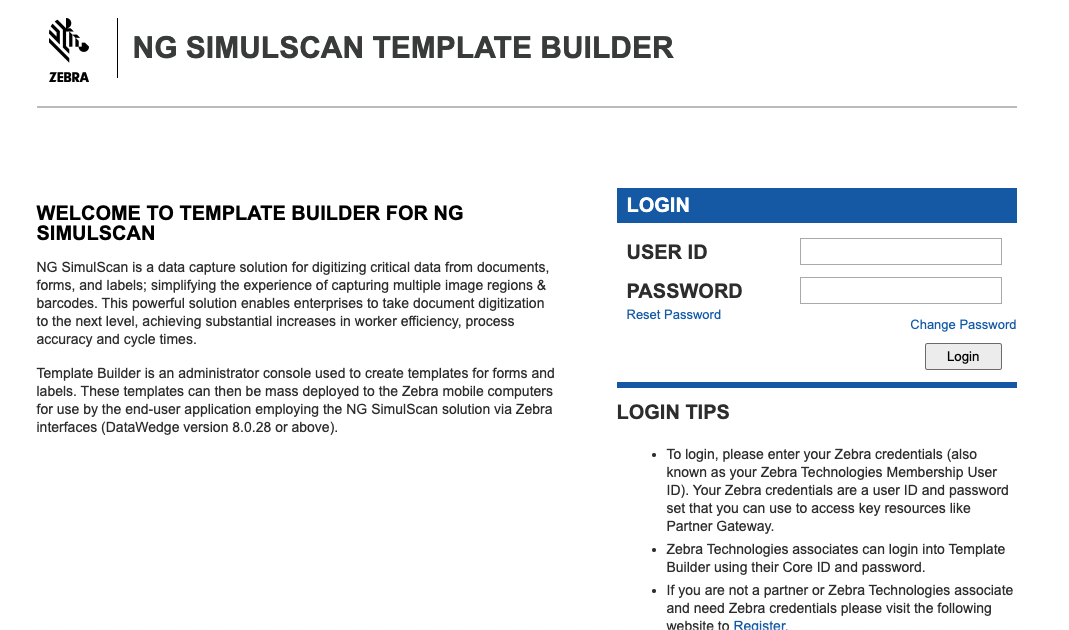
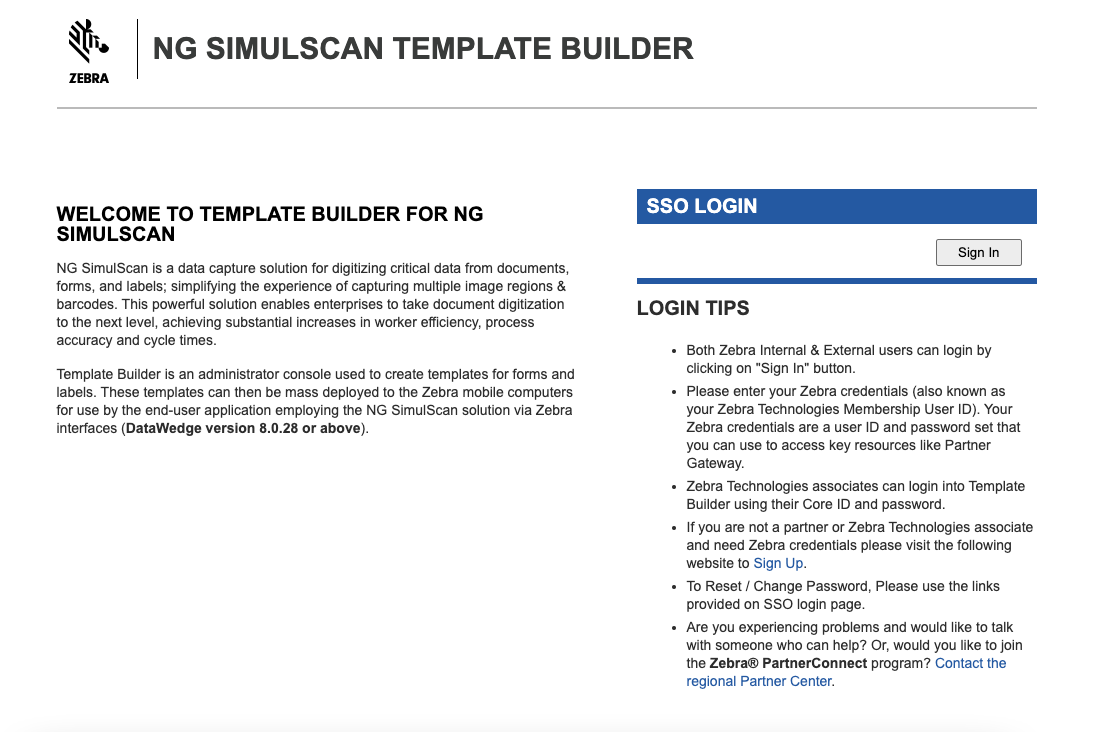
[TUT-63080] DW - Template Builder

Changed region(s): [[0.5557, 0.2413, 0.957, 1.0], [0.0309, 0.2714, 0.5248, 0.6937], [0.0309, 0.0302, 0.9261, 0.181]]

diff --git a/datawedge/11-2/guide/templatebuilder/index.html b/datawedge/11-2/guide/templatebuilder/index.html
@@ -262,13 +262,11 @@
 <h2 id="requirements" class="anchor"><a class="heading-anchor" href="#requirements"><span></span></a>Requirements</h2>
 
 <ul>
-<li>A Zebra TC51/TC56, TC55, TC70/TC75, TC70x/TC75x, TC8000 device running Android ??</li>
-
 <li>Camera or supported 2D imager</li>
 
 <li>DataWedge v8.0.28 or higher configured to access <a href="../input/barcode/#nextgensimulscanconfiguration">NG SimulScan</a></li>
 
-<li>Device with <a href="/licensing">Mobility DNA license</a>, required for NG SimulScan's Document Capture feature</li>
+<li>Zebra Professional devices, such as TC21 and TC26, require a <a href="/licensing">Mobility DNA license</a> for NG SimulScan's Document Capture feature</li>
 </ul>
 
 <hr>
@@ -413,7 +411,7 @@
 
 <p>Visit the <strong><a href="https://signup.zebra.com/register.html?appId=SIMS">Zebra NG SimulScan registration page</a>.</strong> Follow prompts to create a free account and enter all requested information. Once an account is created, Zebra administrators will send login information to the registered address. Zebra recommends planning ahead; this process could take several days.</p>
 
-<p>In a browser, go to the <strong>NG SimulScan Template Builder site: <a href="https://ng-simulscan.zebra.com">ng-simulscan.zebra.com</a></strong>. Enter the login credentials. A screen appears similar to the image below:
+<p>In a browser, go to the <strong>NG SimulScan Template Builder site: <a href="https://ng-simulscan.zebra.com">ng-simulscan.zebra.com</a></strong>. Enter the login credentials:
 <img alt="" style="height:400px" src="login.png">
 <em>Template Builder login screen</em>
 <br></p>
@@ -539,29 +537,47 @@ _Click image to enlarge_
 
 
 <ul>
-<li><strong>Also Read Value from Field -</strong> sets the Template to acquire data from a Field that is designated as an Anchor element (<strong>Use Field to Identify Form</strong> is checked). Enabled by default.
-<br></li></ul>
+<li><strong>Also Read Value from Field -</strong> sets the Template to acquire data from a Field that is designated as an Anchor element (<strong>Use Field to Identify Form</strong> is checked). Enabled by default.</li></ul>
 </li>
 </ul>
+
+<p><br></p>
 
 <h5 id="fieldtypebarcodeusedtoscansingleormultiplebarcodes" class="anchor"><a class="heading-anchor" href="#fieldtypebarcodeusedtoscansingleormultiplebarcodes"><span></span></a>Field Type: Barcode (used to scan single or multiple barcodes)</h5>
 
 <ul>
-<li><strong>Field Settings:</strong>
-_ <strong>Barcode Type -</strong> select the barcode decoder. Zebra recommends to select the appropriate decoder to filter out other symbologies and prevent them from being scanned, thus improving performance. If the decoder is not known, select ANY_BARCODE. If a specific decoder is selected, the corresponding decoder options are displayed and the option <strong>Barcode location is fixed</strong> appears.
-_ <strong>Barcode location is fixed -</strong> sets the barcode as an Anchor element to identify the form if the form does not contain a border. See <a href="#templatesettings">Template Settings</a>.
-_ <strong>Enable Character Checking -</strong> enable this to use the barcode data to aid in identification of the barcode with one or more of the following criteria:
-_ <strong>Starts With -</strong> enter character(s) to check for barcodes that begin with the specified character(s) of the acquired barcode data. Leave blank if not needed.
-_ <strong>Contains -</strong> enter character(s) to accept barcodes that contain the specified character(s) at the index position specified in the <strong>at</strong> field (index 0 = the first character).
-_ <strong>String Length -</strong> enter the number of characters the barcode data must contain. Leave blank if not needed.
-_ <strong>Barcode Orientation -</strong> select one of the following if the barcode is known to be rotated in a position other than the default position (0° Portrait):
-_ <strong>0° -</strong> the barcode is right-side up on the form.
-_ <strong>90° -</strong> the barcode is rotated 90 degrees to the left (counterclockwise).
-_ <strong>180° -</strong> the barcode is upside down. * <strong>270° -</strong> the barcode is rotated 270 degrees to the left (counterclockwise).
-<br>
-<img alt="" style="height:450px" src="fieldsettings-imagecapture-barcode.png">
+<li><p><strong>Field Settings:</strong></p>
+
+<ul>
+<li><strong>Barcode Type -</strong> select the barcode decoder. Zebra recommends to select the appropriate decoder to filter out other symbologies and prevent them from being scanned, thus improving performance. If the decoder is not known, select ANY_BARCODE. If a specific decoder is selected, the corresponding decoder options are displayed and the option <strong>Barcode location is fixed</strong> appears.</li>
+
+<li><strong>Barcode location is fixed -</strong> sets the barcode as an Anchor element to identify the form if the form does not contain a border. See <a href="#templatesettings">Template Settings</a>.</li>
+
+<li><strong>Enable Character Checking -</strong> enable this to use the barcode data to aid in identification of the barcode with one or more of the following criteria:</li>
+
+<li><strong>Starts With -</strong> enter character(s) to check for barcodes that begin with the specified character(s) of the acquired barcode data. Leave blank if not needed.</li>
+
+<li><strong>Contains -</strong> enter character(s) to accept barcodes that contain the specified character(s) at the index position specified in the <strong>at</strong> field (index 0 = the first character).</li>
+
+<li><strong>String Length -</strong> enter the number of characters the barcode data must contain. Leave blank if not needed.</li>
+
+<li><strong>Barcode Orientation -</strong> select one of the following if the barcode is known to be rotated in a position other than the default position (0° Portrait):
+
+
+<ul>
+<li><strong>0° -</strong> the barcode is right-side up on the form.</li>
+
+<li><strong>90° -</strong> the barcode is rotated 90 degrees to the left (counterclockwise).</li>
+
+<li><strong>180° -</strong> the barcode is upside down. </li>
+
+<li><strong>270° -</strong> the barcode is rotated 270 degrees to the left (counterclockwise).</li></ul>
+
+<p></p></li></ul><p></p>
+
+<p><img alt="" style="height:450px" src="fieldsettings-imagecapture-barcode.png">
 <em>Image Capture Field Settings for Barcode.</em>
-<br></li>
+<br></p></li>
 </ul>
 
 <h5 id="fieldtypepictureusedtocapturesignaturesphotosorentiredocumentsasimages" class="anchor"><a class="heading-anchor" href="#fieldtypepictureusedtocapturesignaturesphotosorentiredocumentsasimages"><span></span></a>Field Type: Picture (used to capture signatures, photos, or entire documents as images)</h5>
@@ -583,14 +599,21 @@ _ <strong>180° -</strong> the barcode is upside down. * <strong>270° -</strong
 <li><strong>Signature Presence -</strong> detect for the presence of a handwritten signature</li>
 
 <li><strong>Output:</strong> select the orientation to rotate the output of the region:
-_ <strong>0° -</strong> the barcode is right-side up on the form
-_ <strong>90° -</strong> the barcode is rotated 90 degrees to the left (counterclockwise)
-_ <strong>180° -</strong> the barcode is upside down
-_ <strong>270° -</strong> the barcode is rotated 270 degrees to the left (counterclockwise)
+
+
+<ul>
+<li><strong>0° -</strong> the barcode is right-side up on the form</li>
+
+<li><strong>90° -</strong> the barcode is rotated 90 degrees to the left (counterclockwise)</li>
+
+<li><strong>180° -</strong> the barcode is upside down</li>
+
+<li><strong>270° -</strong> the barcode is rotated 270 degrees to the left (counterclockwise)
 <br>
 <img alt="" style="height:450px" src="fieldsettings-imagecapture-picture.png">
 <em>Image Capture Field Settings for Picture.</em>
-<br></li>
+<br></li></ul>
+</li>
 </ul>
 
 <hr>
@@ -621,7 +644,7 @@ _ <strong>270° -</strong> the barcode is rotated 270 degrees to the left (count
 
 <li><strong>Return quantity barcode data with results -</strong> the quantity of barcodes is output along with the scanned barcode data</li>
 
-<li><strong>User/System Defined -</strong> set the quantity through the DataWedge UI under <a href="../input/barcode/#eautogroupidentification">Template params</a> or with DataWedge <a href="../api/setconfig">SetConfig</a> intent API by setting common_barcode_dynamic_quantity to the desired quantity.</li></ul>
+<li><strong>User/System Defined -</strong> set the quantity through the DataWedge UI under <a href="../input/barcode/#eautogroupidentification">Template params</a> or with DataWedge <a href="../api/setconfig">SetConfig</a> intent API by setting <code>common_barcode_dynamic_quantity</code> to the desired quantity.</li></ul>
 </li>
 
 <li><strong>Barcode Type -</strong> select the barcode decoder. Zebra recommends to select the appropriate decoder to filter out other symbologies and prevent them from being scanned, thus improving performance. If the decoder is not known, select ANY_BARCODE. If a specific decoder is selected, the corresponding decoder options are displayed.</li>
@@ -657,9 +680,10 @@ _ <strong>270° -</strong> the barcode is rotated 270 degrees to the left (count
 
 <li>Click on <strong>Template Settings</strong> or from the top menu select <strong>Edit &gt; Template Settings.</strong></li>
 
-<li>Adjust settings as needed according to descriptions that follow depending on the Document Type of the Template.
-<br></li>
+<li>Adjust settings as needed according to descriptions that follow depending on the Document Type of the Template.</li>
 </ol>
+
+<p><br></p>
 
 <h5 id="imagecapturetemplatesettings" class="anchor"><a class="heading-anchor" href="#imagecapturetemplatesettings"><span></span></a>Image Capture Template Settings</h5>
 
@@ -685,8 +709,9 @@ _ <strong>270° -</strong> the barcode is rotated 270 degrees to the left (count
 </ul>
 
 <p><img alt="" style="height:450px" src="templatesettings-imagecapture.png">
-<em>Template Settings for Image Capture.</em>
-<br></p>
+<em>Template Settings for Image Capture.</em></p>
+
+<p><br></p>
 
 <h5 id="multibarcodetemplatesettings" class="anchor"><a class="heading-anchor" href="#multibarcodetemplatesettings"><span></span></a>MultiBarcode Template Settings</h5>
 
@@ -830,11 +855,20 @@ _ <strong>270° -</strong> the barcode is rotated 270 degrees to the left (count
 <li>Ensure Camera or 2D Imager is selected under <a href="../input/barcode/#scannerselection">Scanner Selection</a>.</li>
 
 <li><a href="../input/barcode/#nextgensimulscanconfiguration">NextGen SimulScan Configuration</a> is configured properly.
-_ <strong><a href="../input/barcode/#documentselectiondocumentcapture">Document Selection</a></strong> displays the desired Template file.
-_ <strong><a href="../input/barcode/#scanningmodes">Scanning Mode</a></strong> is set to MultiBarcode or Document Capture, depending on the template in use.
-_ If known, select the appropriate <strong><a href="../input/barcode/#decoderselection">Decoders</a></strong> and corresponding parameters to improve scanning performance.
-_ For MultiBarcode templates, set the desired <strong><a href="../input/barcode/#multibarcodeparams">MultiBarcode Params</a></strong>. * Set other parameters as needed, e.g. UPC/EAN params, Reader params, etc.
-The Template is ready to be used.</li>
+
+
+<ul>
+<li><strong><a href="../input/barcode/#documentselectiondocumentcapture">Document Selection</a></strong> displays the desired Template file.</li>
+
+<li><strong><a href="../input/barcode/#scanningmodes">Scanning Mode</a></strong> is set to MultiBarcode or Document Capture, depending on the template in use.</li>
+
+<li>If known, select the appropriate <strong><a href="../input/barcode/#decoderselection">Decoders</a></strong> and corresponding parameters to improve scanning performance.</li>
+
+<li>For MultiBarcode templates, set the desired <strong><a href="../input/barcode/#multibarcodeparams">MultiBarcode Params</a></strong>. </li>
+
+<li>Set other parameters as needed, e.g. UPC/EAN params, Reader params, etc.
+The Template is ready to be used.</li></ul>
+</li>
 </ul>
 
 <hr>
